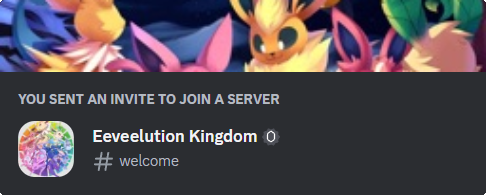
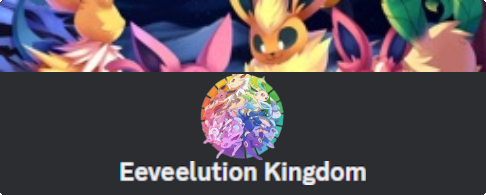
HopeFix

Changed region(s): [[0.0309, 0.3692, 0.7716, 0.9538], [0.0309, 0.6154, 0.1543, 0.9231]]

diff --git a/style.css b/style.css
@@ -155,8 +155,9 @@ nav{
     height: 30px;
 }
 .discInvite{
-    min-width: 250px;
-    width: 50%;
+    min-width: 175px;
+    max-width: 500px;
+    width: 75%;
 }
 
 /*INDEX*/
@@ -1062,6 +1063,7 @@ ul{
     border: 5px solid #191b1d;
     border-top: none;
     width: 17.5%;
+    min-width: 268.8px;
     text-align: center;
     margin: 0 auto;
     border-radius: 0 0 15px 15px;
